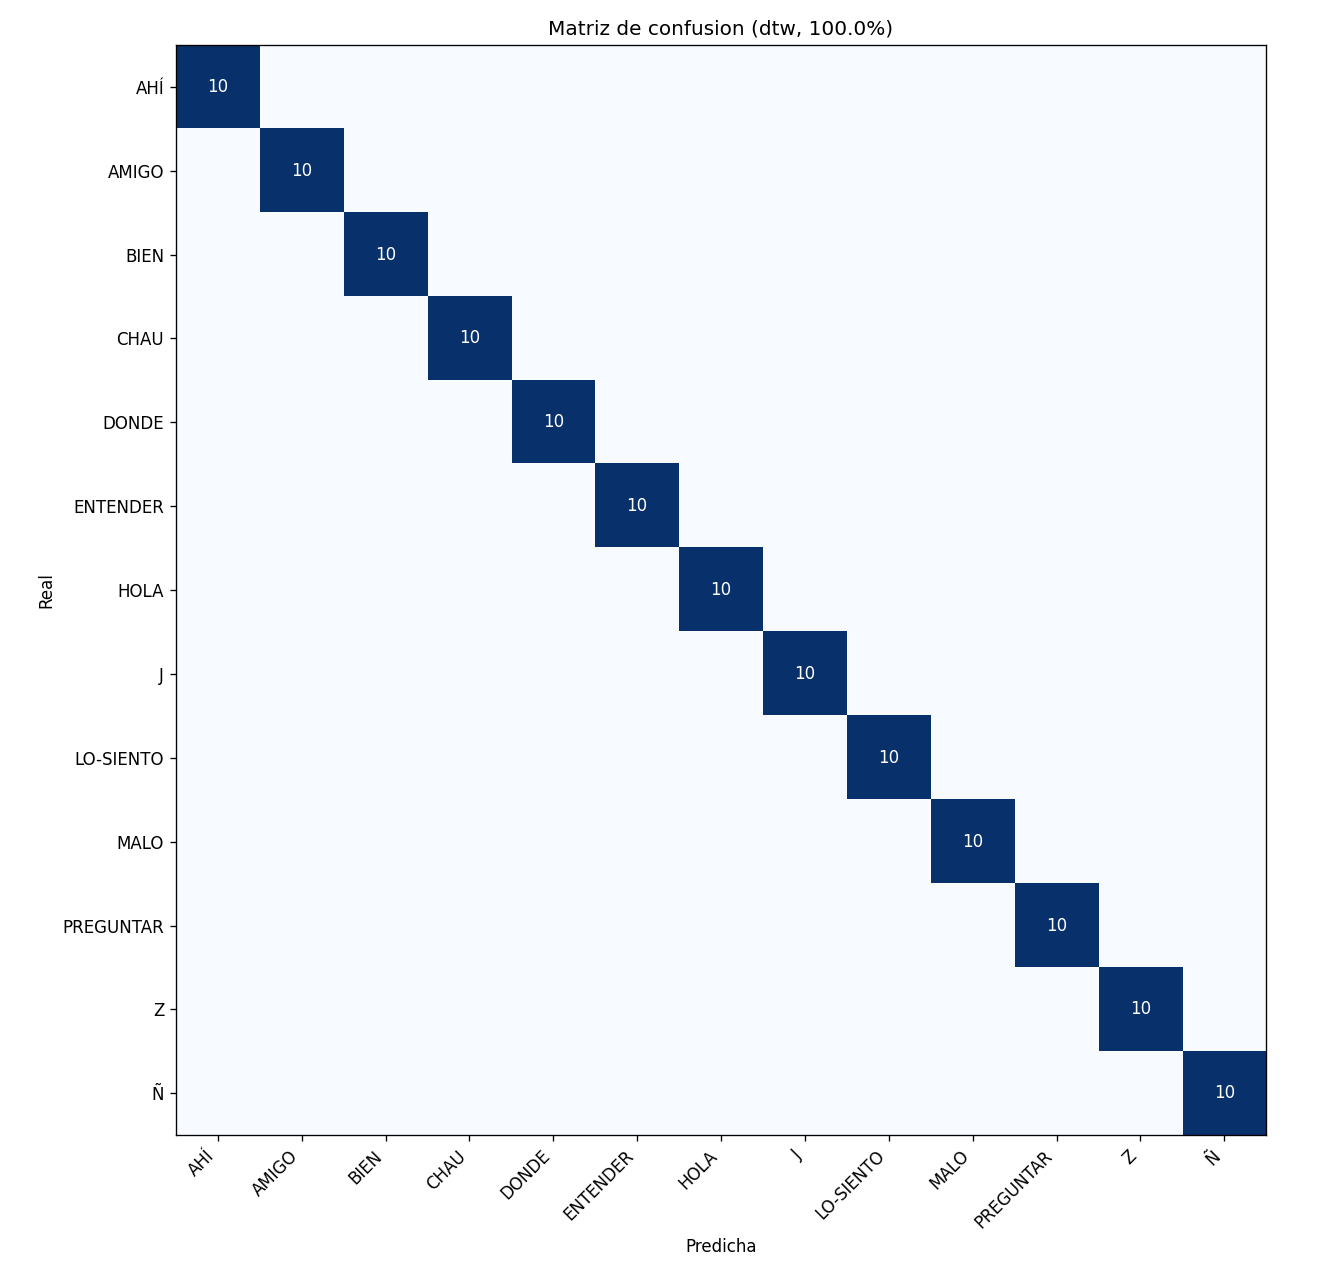
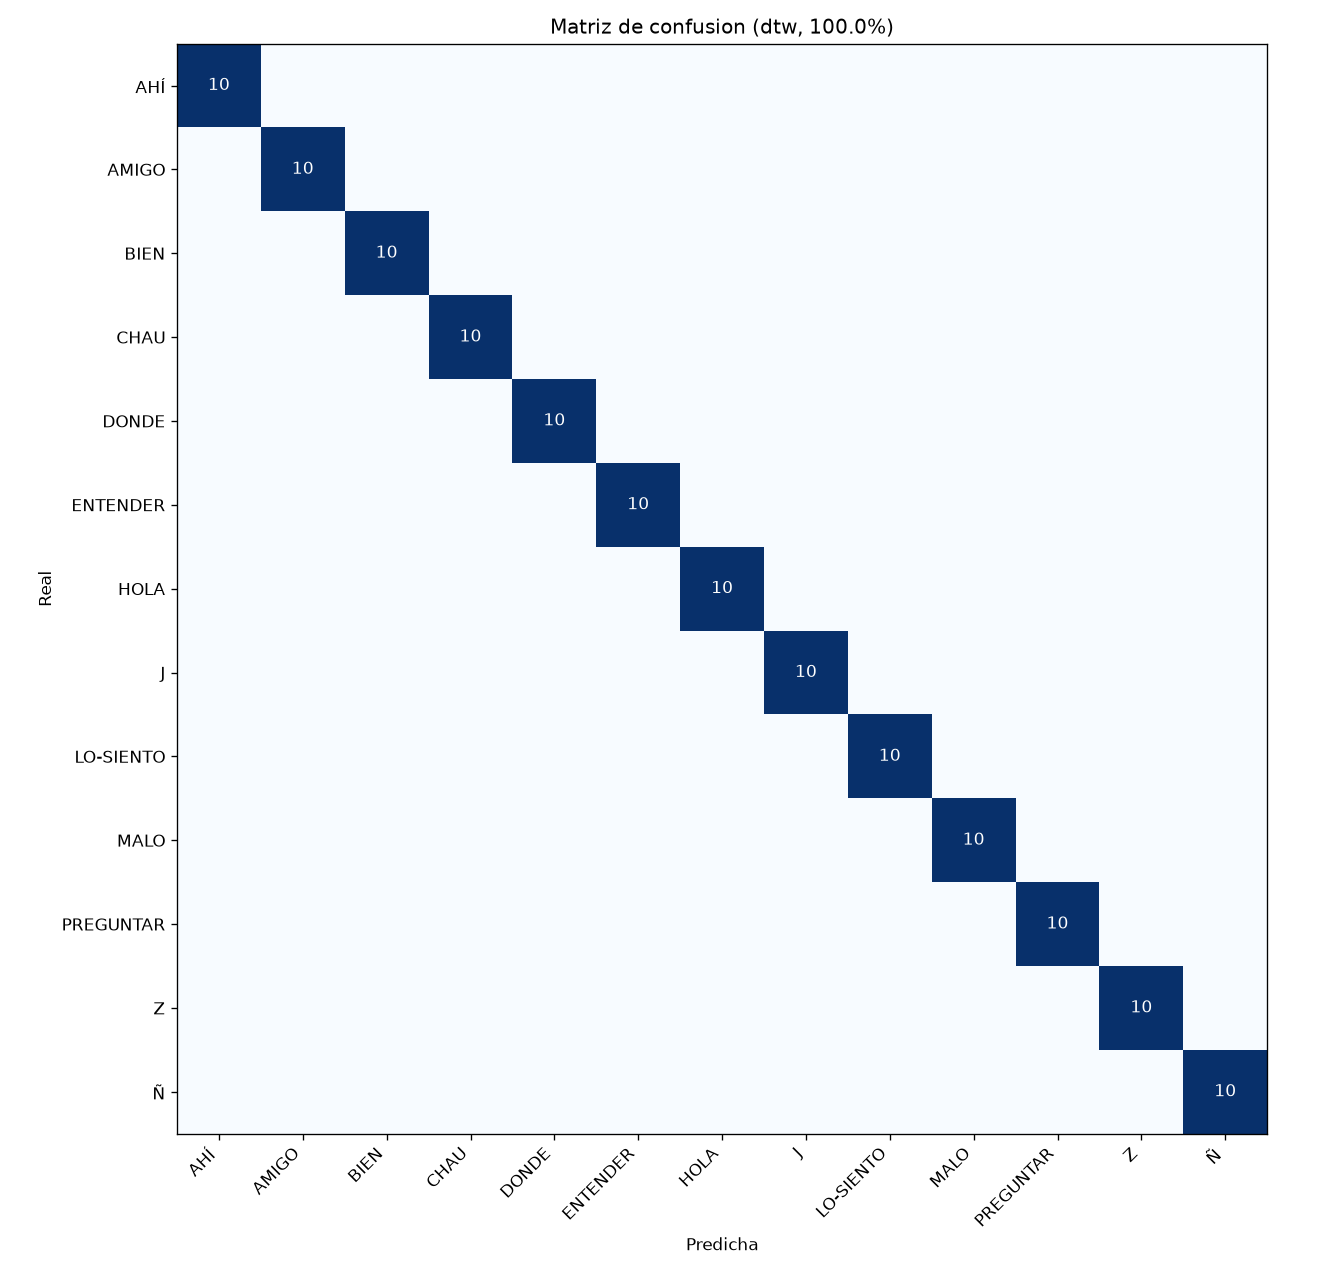
final:_v1

diff --git a/GUI/dynamic_live_widget.py b/GUI/dynamic_live_widget.py
@@ -18,9 +18,9 @@ import cv2
 import mediapipe as mp
 import numpy as np
 from PyQt5.QtCore import Qt, QThread, pyqtSignal
-from PyQt5.QtGui import QFont, QImage, QPixmap
+from PyQt5.QtGui import QFont
 from PyQt5.QtWidgets import (QApplication, QCheckBox, QHBoxLayout, QLabel, QMessageBox,
-                              QPlainTextEdit, QPushButton, QVBoxLayout, QWidget)
+                              QPlainTextEdit, QPushButton, QSizePolicy, QVBoxLayout, QWidget)
 
 sys.path.append(os.path.dirname(os.path.abspath(__file__)))
 sys.path.append(os.path.dirname(os.path.dirname(os.path.abspath(__file__))))
@@ -30,6 +30,7 @@ import lsp_dynamic_live as env
 import lsp_dynamic_train as tl
 from dynamic_camera import AMARILLO, BLANCO, NARANJA, VERDE
 from dynamic_testing_widget import NOMBRES_MODELO
+from qt_video import mostrar_frame
 
 warnings.filterwarnings("ignore", category=UserWarning, module='google.protobuf')
 warnings.filterwarnings("ignore", category=DeprecationWarning, module='mediapipe')
@@ -38,7 +39,6 @@ warnings.filterwarnings("ignore", message="Feedback manager requires a model wit
 ROOT_DIR = os.path.dirname(os.path.dirname(os.path.abspath(__file__)))
 SONIDOS_DIR = os.path.join(ROOT_DIR, 'Sonidos')
 
-ANCHO_VISTA = 800            # ancho al que se reduce el cuadro antes de mostrarlo
 REPETIR_ANUNCIO_SEGUNDOS = 3.0   # si repites la misma sena, se vuelve a decir cada estos segundos
 
 ESTILO_BOTON = ("QPushButton { border: 3px solid black; border-radius: 10px; background-color: orange; "
@@ -54,14 +54,11 @@ TEXTO_ESTADO = {env.QUIETO: ('Haz la sena cuando quieras', VERDE),
 def _anotar(frame, resultado, segmentador, fps):
     """Copia del frame con el esqueleto y el estado dibujados encima.
 
-    Se dibuja despues de reducir la imagen, para que el grosor de las lineas no dependa de la
-    resolucion que entrego la camara.
+    Se deja el cuadro al tamano con que lo entrego la camara: el escalado al espacio
+    disponible lo hace la etiqueta (GUI/qt_video.py), asi al maximizar la ventana el video se
+    agranda sin perder la proporcion.
     """
-    alto, ancho = frame.shape[:2]
-    if ancho > ANCHO_VISTA:
-        vista = cv2.resize(frame, (ANCHO_VISTA, int(round(alto * ANCHO_VISTA / ancho))), interpolation=cv2.INTER_AREA)
-    else:
-        vista = frame.copy()
+    vista = frame.copy()
 
     dibujo = mp.solutions.drawing_utils
     if resultado.pose_landmarks:
@@ -194,10 +191,12 @@ class DynamicLiveWidget(QWidget):
         fila = QHBoxLayout()
 
         self.video_label = QLabel(self)
-        self.video_label.setFixedSize(ANCHO_VISTA, 470)
+        self.video_label.setSizePolicy(QSizePolicy.Expanding, QSizePolicy.Expanding)
+        # Crece con la ventana; el cuadro se escala para llenarla sin deformarse.
+        self.video_label.setMinimumSize(480, 360)
         self.video_label.setAlignment(Qt.AlignCenter)
         self.video_label.setStyleSheet("background-color: black;")
-        fila.addWidget(self.video_label)
+        fila.addWidget(self.video_label, 1)
 
         columna = QVBoxLayout()
 
@@ -367,9 +366,8 @@ class DynamicLiveWidget(QWidget):
             QMessageBox.warning(self, 'Camara', motivo)
 
     def _pintar(self, frame):
-        alto, ancho = frame.shape[:2]
-        imagen = QImage(frame.data, ancho, alto, 3 * ancho, QImage.Format_BGR888).copy()
-        self.video_label.setPixmap(QPixmap.fromImage(imagen))
+        """Muestra el cuadro escalado al espacio disponible de la etiqueta."""
+        mostrar_frame(self.video_label, frame)
 
     def _actualizar_estado(self, datos):
         texto, _ = TEXTO_ESTADO.get(datos['estado'], ('', None))

diff --git a/GUI/testing_widget.py b/GUI/testing_widget.py
@@ -10,11 +10,13 @@ import numpy as np
 import pygame
 from PIL import Image, ImageDraw, ImageFont
 from PyQt5.QtCore import QSize, Qt, QTimer, pyqtSignal
-from PyQt5.QtGui import QCursor, QFont, QIcon, QImage, QPixmap
+from PyQt5.QtGui import QCursor, QFont, QIcon
 from PyQt5.QtWidgets import (QApplication, QHBoxLayout, QLabel, QMessageBox,
                               QPushButton, QSizePolicy, QVBoxLayout, QWidget)
 
+sys.path.append(os.path.dirname(os.path.abspath(__file__)))
 sys.path.append(os.path.dirname(os.path.dirname(os.path.abspath(__file__))))
+from qt_video import mostrar_frame
 from lsp_features import extraer_vector
 from lsp_tts import Hablante
 
@@ -73,11 +75,13 @@ class TestingWidget(QWidget):
 
         self.video_label = QLabel(self)
         self.video_label.setSizePolicy(QSizePolicy.Expanding, QSizePolicy.Expanding)
-        self.video_label.setFixedSize(1150, 550)
-        self.video_label.setAlignment(Qt.AlignTop)
+        # Crece con la ventana: al maximizar, el video ocupa todo el espacio disponible.
+        self.video_label.setMinimumSize(480, 340)
+        self.video_label.setAlignment(Qt.AlignCenter)
+        self.video_label.setStyleSheet("background-color: black;")
         right_column_layout.addWidget(self.video_label)
 
-        second_row_layout.addLayout(right_column_layout)
+        second_row_layout.addLayout(right_column_layout, 1)   # el video se lleva el espacio extra
 
         left_column_layout = QVBoxLayout()
         left_column_layout.setAlignment(Qt.AlignCenter | Qt.AlignTop)
@@ -119,6 +123,9 @@ class TestingWidget(QWidget):
         self.model_status_label = QLabel(self)
         self.model_status_label.setFont(QFont("Arial", 10))
         self.model_status_label.setWordWrap(True)
+        # Ancho fijo: con wordWrap su sizeHint es el de la linea mas larga (~1100 px) y se quedaba
+        # con el ancho de la ventana, dejando al video en su tamano minimo.
+        self.model_status_label.setFixedWidth(260)
         self.model_status_label.setStyleSheet("border: 3px solid black; border-radius: 10px; background-color: #FFF3CD; color: black; padding: 5px;")
         self.model_status_label.setAlignment(Qt.AlignCenter)
         left_column_layout.addWidget(self.model_status_label)
@@ -329,10 +336,7 @@ class TestingWidget(QWidget):
         if texto_predicho is not None:
             frame_bgr = self.dibujar_texto(frame_bgr, texto_predicho, (20, 20), tamano_fuente=60)
 
-        h, w, ch = frame_bgr.shape
-        bytes_per_line = ch * w
-        convert_to_Qt_format = QImage(frame_bgr.data, w, h, bytes_per_line, QImage.Format_BGR888)
-        self.video_label.setPixmap(QPixmap.fromImage(convert_to_Qt_format))
+        mostrar_frame(self.video_label, frame_bgr)
 
 
 if __name__ == "__main__":

diff --git a/GUI/Main.py b/GUI/Main.py
@@ -241,7 +241,12 @@ class MainWindow(QMainWindow):
         super().__init__()
 
         self.setWindowTitle('Reconocimiento de Lengua de Señas Peruana - LSP-ML')
-        self.setFixedSize(1200, 800)
+        # Ventana redimensionable: setFixedSize desactiva el boton de maximizar y el borde para
+        # estirar. El minimo es lo que exige la pantalla mas ancha (Entrenamiento pide 1125 px de
+        # contenido, que con los margenes de la ventana son ~1245): por debajo, esa pantalla se
+        # aprieta. Cabe en un portatil de 1366x768 y no limita nada en pantallas grandes.
+        self.setMinimumSize(1250, 690)
+        self.resize(1280, 800)   # un poco mas ancha que el minimo, parecida a la original
         self.setWindowIcon(QIcon("icons/windowLogo.png"))
 
         self.stacked_widget = QStackedWidget()
@@ -254,6 +259,18 @@ class MainWindow(QMainWindow):
         self.stacked_widget.addWidget(self.gtos)
 
         self.center()
+
+    def keyPressEvent(self, event):
+        """F11 alterna pantalla completa (sin bordes) y Escape sale de ella."""
+        if event.key() == Qt.Key_F11:
+            if self.isFullScreen():
+                self.showNormal()
+            else:
+                self.showFullScreen()
+        elif event.key() == Qt.Key_Escape and self.isFullScreen():
+            self.showNormal()
+        else:
+            return super().keyPressEvent(event)
 
     def center(self):
         screen = QDesktopWidget().availableGeometry().center()

diff --git a/GUI/qt_video.py b/GUI/qt_video.py
@@ -1,0 +1,25 @@
+"""Muestra un cuadro de OpenCV dentro de un QLabel, ajustandolo al tamano de la etiqueta.
+
+Lo usan las dos pantallas que muestran la camara (señas estaticas y prueba en vivo). La
+etiqueta crece con la ventana, asi que al maximizar el programa el video ocupa el espacio
+disponible: se conserva la proporcion de la imagen y lo que sobra queda en negro.
+"""
+from PyQt5.QtCore import Qt
+from PyQt5.QtGui import QImage, QPixmap
+
+
+def mostrar_frame(label, frame_bgr):
+    """Dibuja un cuadro BGR (numpy) en `label`, escalado a su tamano actual.
+
+    Si el cuadro no tiene datos, o la etiqueta aun no tiene tamano, no hace nada.
+    """
+    if frame_bgr is None:
+        return
+    alto, ancho = frame_bgr.shape[:2]
+    if alto <= 0 or ancho <= 0 or label.width() <= 0 or label.height() <= 0:
+        return
+    # .copy() para que el QImage sea dueño de sus datos: si no, la imagen depende del numpy
+    # que la origino y puede quedar con basura cuando ese arreglo se libera.
+    imagen = QImage(frame_bgr.data, ancho, alto, frame_bgr.strides[0], QImage.Format_BGR888).copy()
+    pixmap = QPixmap.fromImage(imagen).scaled(label.size(), Qt.KeepAspectRatio, Qt.SmoothTransformation)
+    label.setPixmap(pixmap)
